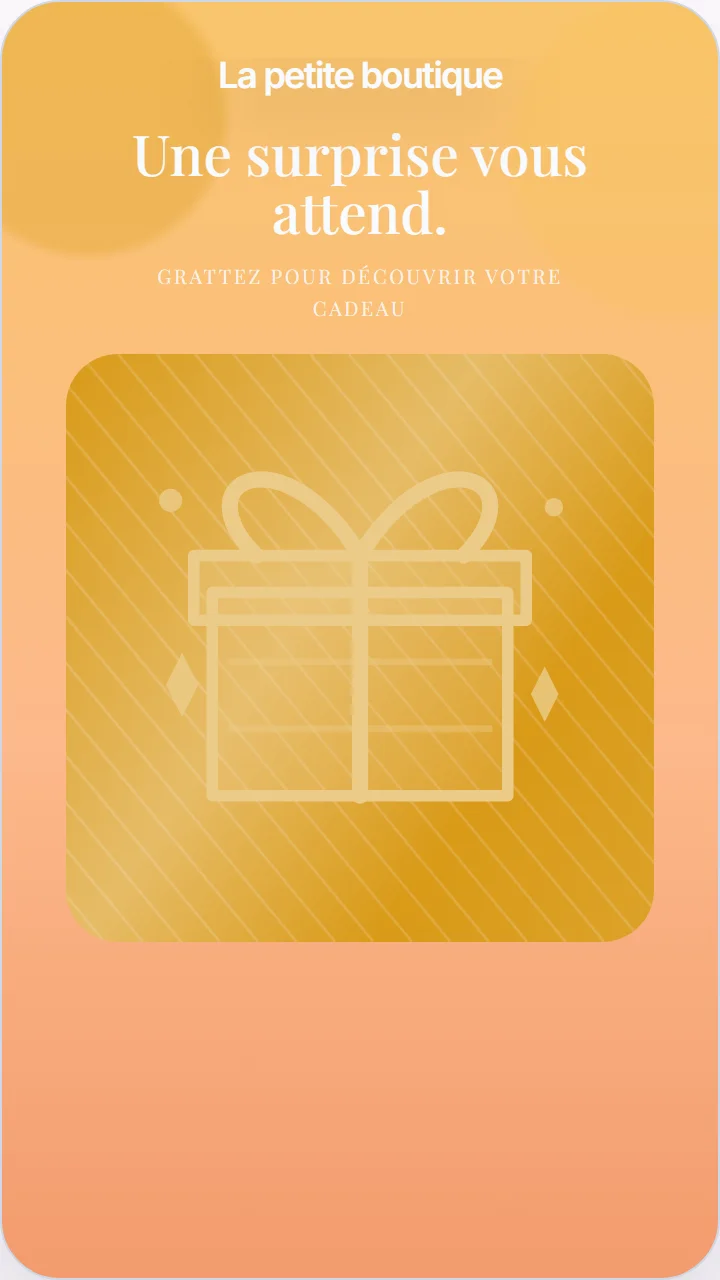
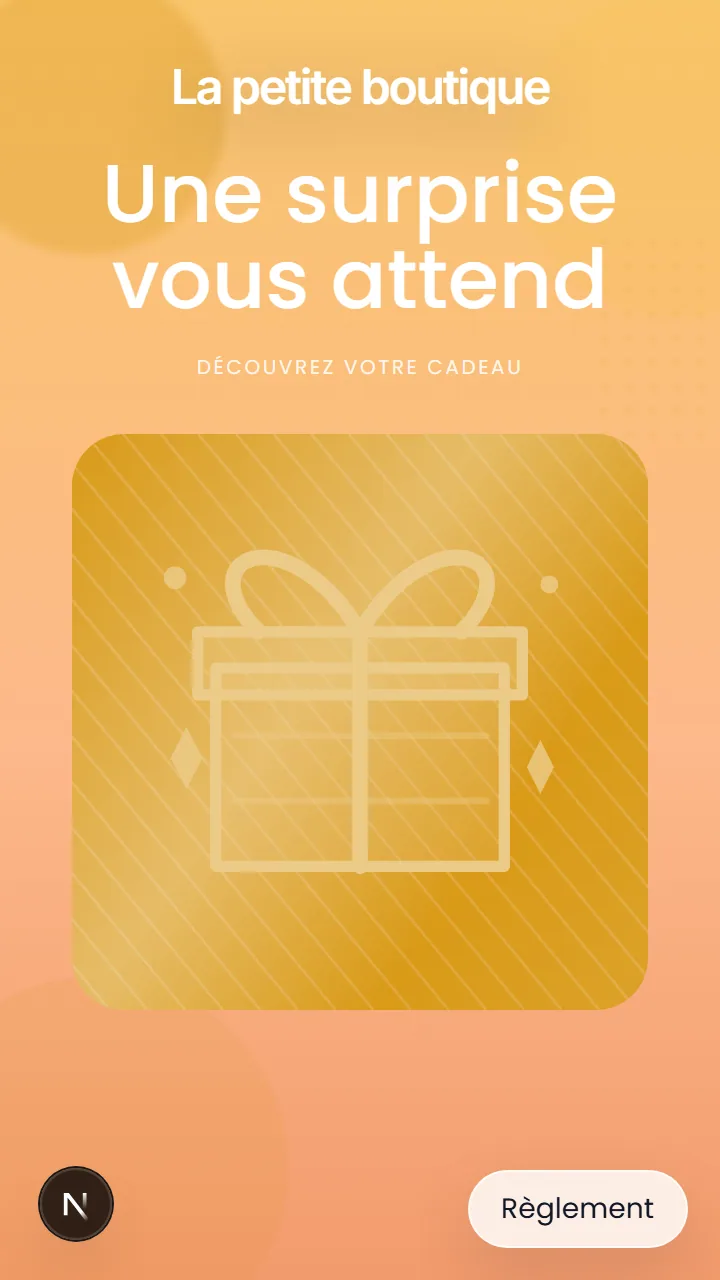
fix(marketing): improve poster and game screen composition

diff --git a/apps/landing-page/src/components/marketing/showcase.module.css b/apps/landing-page/src/components/marketing/showcase.module.css
@@ -23,13 +23,19 @@
 .phone img { display: block; width: 100%; height: auto; border-radius: 23px; }
 .journeyPlay { position: absolute; width: 210px; left: 50%; top: 25px; transform: translateX(-50%) rotate(-3deg); z-index: 2; }
 .journeyPlay .phone { width: 100%; }
-.journeyScan, .journeyReward { position: absolute; width: 160px; height: 285px; top: 105px; border: 5px solid #423b43; border-radius: 25px; padding: 29px 12px 15px; box-shadow: 0 10px 22px #2c193d14; background: #fff; text-align: center; display: flex; flex-direction: column; align-items: center; gap: 14px; }
-.journeyScan { left: 0; transform: rotate(-9deg); background: #eee5f2; }
+.journeyPoster, .journeyReward { position: absolute; width: 160px; height: 285px; top: 105px; box-shadow: 0 10px 22px #2c193d14; text-align: center; display: flex; flex-direction: column; align-items: center; }
+.journeyPoster { left: 0; transform: rotate(-5deg); padding: 18px 14px 15px; border: 1px solid #ded7c9; border-radius: 5px; background: linear-gradient(160deg, #fffefb, #f5f0e5); box-shadow: 0 16px 28px #2c193d1c, inset 0 0 0 5px #fffdf7; gap: 9px; }
 .journeyReward { right: 0; transform: rotate(9deg); background: #fff8ec; }
-.journeyScan strong, .journeyReward strong { font-size: 17px; line-height: 1.3; }
-.journeyScan > svg { width: 68px; height: 68px; padding: 8px; background: #fff; border-radius: 10px; }
+.journeyPoster .posterBrand { display: flex; align-items: center; gap: 5px; color: #365442; font-family: Georgia, serif; font-size: 12px; font-weight: 700; }
+.posterBrand svg { color: #607b50; }
+.posterKicker { margin-top: 5px; color: #766c5e; font-size: 7px; font-weight: 700; letter-spacing: .13em; text-transform: uppercase; }
+.posterHeadline { color: #2f4637; font-family: Georgia, serif; font-size: 18px; line-height: 1.15; }
+.posterCopy { max-width: 110px; color: #665f55; font-size: 9px; line-height: 1.45; }
+.posterQr { display: grid; place-items: center; width: 60px; height: 60px; margin-top: auto; border: 1px solid #e4dfd4; background: #fff; color: #273e32; }
+.posterAction { color: #365442; font-size: 8px; font-weight: 750; letter-spacing: .08em; text-transform: uppercase; }
+.journeyReward strong { font-size: 17px; line-height: 1.3; }
 .journeyReward > svg { color: #476b46; }
-.journeyScan small, .journeyReward small { font-size: 10px; line-height: 1.7; color: #645d69; }
+.journeyReward small { font-size: 10px; line-height: 1.7; color: #645d69; }
 .journeySteps { position: absolute; inset: auto 0 0; display: flex; justify-content: space-around; font-size: 11px; font-weight: 650; color: #5b4360; }
 .journeySteps span { display: flex; gap: 8px; align-items: center; }
 .journeySteps b { border: 1px solid #ddcde5; border-radius: 50%; width: 22px; height: 22px; display: grid; place-items: center; font-size: 10px; }
@@ -114,12 +120,12 @@
 .specialtyPanel .link { margin-top: 16px; }
 .beautyHero { display: grid; grid-template-columns: 1.3fr .7fr; gap: 40px; align-items: center; }
 .beautyHero > .phone { justify-self: center; width: 230px; transform: rotate(3deg); }
-@media (max-width: 1023px) { .hero { gap: 24px; } .journey { height: 420px; } .journeyScan, .journeyReward { width: 133px; height: 248px; top: 100px; } .journeyPlay { width: 185px; } .journeyScan { left: 0; } .journeyReward { right: 0; } .giftGrid { gap: 32px; } .modelArt .phone { width: 170px; } }
+@media (max-width: 1023px) { .hero { gap: 24px; } .journey { height: 420px; } .journeyPoster, .journeyReward { width: 133px; height: 248px; top: 100px; } .journeyPoster { padding: 14px 10px 12px; gap: 7px; } .posterHeadline { font-size: 15px; } .posterQr { width: 48px; height: 48px; } .posterQr svg { width: 39px; } .posterAction { font-size: 7px; } .journeyPlay { width: 185px; } .journeyReward { right: 0; } .giftGrid { gap: 32px; } .modelArt .phone { width: 170px; } }
 @media (max-width: 767px) {
   .section { padding-block: 54px; } .hero { grid-template-columns: 1fr; padding-block: 38px 10px; gap: 24px; }
   .hero h1 { max-width: 580px; font-size: clamp(36px, 8vw, 50px); } .heroCopy > p:not(.eyebrow):not(.note) { font-size: 16px; line-height: 1.8; margin-top: 20px; }
   .actions { margin-top: 22px; gap: 10px; } .actions a { font-size: 14px; padding-inline: 16px; }
-  .journey { height: 385px; max-width: 440px; } .journeyPlay { width: 178px; top: 14px; } .journeyScan, .journeyReward { width: 132px; height: 238px; top: 68px; padding-top: 22px; gap: 10px; } .journeyScan strong, .journeyReward strong { font-size: 14px; }
+  .journey { height: 385px; max-width: 440px; } .journeyPlay { width: 178px; top: 14px; } .journeyPoster, .journeyReward { width: 132px; height: 238px; top: 68px; } .journeyPoster { padding: 13px 9px 11px; gap: 6px; } .posterHeadline { font-size: 14px; } .posterCopy { font-size: 8px; } .posterQr { width: 44px; height: 44px; } .posterQr svg { width: 36px; } .journeyReward { padding: 22px 12px 15px; gap: 10px; } .journeyReward strong { font-size: 14px; }
   .benefits { gap: 12px 17px; font-size: 11px; } .reassurance { font-size: 11px; }
   .demo { padding-inline: 16px; padding-bottom: 20px; } .carousel { gap: 16px; } .modelCard { flex-basis: 80%; max-width: 300px; } .modelArt .phone { width: 190px; }
   .sectionTop { gap: 18px; align-items: start; flex-wrap: wrap; } .sectionTop > div:first-child { flex-basis: 100%; } .carouselControls { gap: 8px; }
@@ -128,5 +134,5 @@
   .pricing { padding: 26px; gap: 30px; } .finalCta { flex-direction: column; align-items: start; padding: 28px; } .finalCta .heading { font-size: 27px; }
   .specialtyPanel { gap: 24px; padding: 22px; } .specialtyPanel h3 { font-size: 25px; } .specialtyArt .phone { width: 195px; } .beautyHero > .phone { width: 190px; margin-block: 12px; }
 }
-@media (max-width: 359px) { .container { width: calc(100% - 32px); } .hero h1 { font-size: 35px; } .journey { height: 350px; } .journeyPlay { width: 156px; } .journeyScan, .journeyReward { width: 118px; height: 220px; } .journeySteps { font-size: 10px; } .journeySteps span { gap: 5px; } .modelArt .phone { width: 175px; } .sectorCard { grid-template-columns: 95px 1fr; } .sectorArt .phone { width: 100px; } .sectionTop { align-items: start; } }
+@media (max-width: 359px) { .container { width: calc(100% - 32px); } .hero h1 { font-size: 35px; } .journey { height: 350px; } .journeyPlay { width: 156px; } .journeyPoster, .journeyReward { width: 118px; height: 220px; } .journeyPoster { gap: 5px; padding: 12px 7px 9px; } .posterBrand { font-size: 10px; } .posterKicker { font-size: 6px; } .posterHeadline { font-size: 13px; } .posterCopy { max-width: 95px; font-size: 7px; } .posterQr { width: 38px; height: 38px; } .posterQr svg { width: 32px; } .posterAction { font-size: 6px; } .journeyReward { padding: 22px 10px 12px; } .journeySteps { font-size: 10px; } .journeySteps span { gap: 5px; } .modelArt .phone { width: 175px; } .sectorCard { grid-template-columns: 95px 1fr; } .sectorArt .phone { width: 100px; } .sectionTop { align-items: start; } }
 @media (prefers-reduced-motion: reduce) { .home *, .carousel { scroll-behavior: auto !important; transition: none !important; animation: none !important; } }

diff --git a/apps/web-app/e2e/game-screen-layout.spec.ts b/apps/web-app/e2e/game-screen-layout.spec.ts
@@ -1,0 +1,110 @@
+import { expect, test } from "@playwright/test";
+import { assertNoPageOverflow, captureVisualAt1280, rejectAnalyticsForVisualTests } from "./helpers/visual-1280";
+
+const viewports = [
+  { width: 1280, height: 720 },
+  { width: 1280, height: 600 },
+  { width: 390, height: 844 },
+];
+
+test("@visual-1280 jeu roue : le titre reste dégagé du jeu sur grand et petit écran", async ({ page, baseURL }, info) => {
+  await rejectAnalyticsForVisualTests(page.context(), baseURL!);
+  await page.route("**/api/public/campaign/template-proof-campaign*", route => route.fulfill({ json: { campaign: { actions: [] } } }));
+
+  for (const viewport of viewports) {
+    await page.setViewportSize(viewport);
+    await page.goto("/dev/template-rendering-proof?mode=live&template=beauty-nude&business=beauty");
+    await page.addStyleTag({ content: "nextjs-portal { display: none !important; }" });
+    const surface = page.locator(".okado-public-experience");
+    const heading = surface.locator("h1");
+    const wheel = surface.getByTestId("game-wheel-frame");
+    await expect(heading).toContainText("Une surprise");
+    await expect(wheel).toBeVisible();
+    const headingBox = (await heading.boundingBox())!;
+    const wheelBox = (await wheel.boundingBox())!;
+    expect(wheelBox.y).toBeGreaterThanOrEqual(headingBox.y + headingBox.height);
+    await expect.poll(() => page.evaluate(() => document.documentElement.scrollWidth)).toBeLessThanOrEqual(viewport.width);
+    await assertNoPageOverflow(page);
+
+    if (viewport.width === 1280) {
+      await captureVisualAt1280(page, info, `roue-beaute-${viewport.height}`, viewport.height);
+    } else {
+      await page.screenshot({ path: info.outputPath("roue-beaute-mobile.png"), animations: "disabled" });
+    }
+  }
+});
+
+test("@visual-1280 ticket : la zone à gratter est alignée sans recouvrir le titre", async ({ page, baseURL }, info) => {
+  await rejectAnalyticsForVisualTests(page.context(), baseURL!);
+  await page.route("**/api/public/campaign/template-proof-campaign*", route => route.fulfill({ json: { campaign: { actions: [] } } }));
+
+  for (const viewport of viewports) {
+    await page.setViewportSize(viewport);
+    await page.goto("/dev/template-rendering-proof?mode=live&template=beauty-scratch-nude&business=beauty");
+    await page.addStyleTag({ content: "nextjs-portal { display: none !important; }" });
+    const surface = page.locator(".okado-public-experience");
+    const heading = surface.getByRole("heading", { name: /Une surprise/ });
+    const ticket = surface.getByTestId("scratch-ticket-surface");
+    await expect(ticket.locator("canvas")).toBeVisible();
+    const headingBox = (await heading.boundingBox())!;
+    const ticketBox = (await ticket.boundingBox())!;
+    expect(ticketBox.y).toBeGreaterThanOrEqual(headingBox.y + headingBox.height);
+    if (viewport.width === 390) expect(ticketBox.width).toBeGreaterThanOrEqual(235);
+    await expect.poll(() => page.evaluate(() => document.documentElement.scrollWidth)).toBeLessThanOrEqual(viewport.width);
+    await assertNoPageOverflow(page);
+
+    if (viewport.width === 1280) {
+      await captureVisualAt1280(page, info, `ticket-beaute-${viewport.height}`, viewport.height);
+    } else {
+      await page.screenshot({ path: info.outputPath("ticket-beaute-mobile.png"), animations: "disabled" });
+    }
+  }
+});
+
+test("game screens marketing : captures joueur réelles sur données synthétiques", async ({ browser }, info) => {
+  const context = await browser.newContext({ viewport: { width: 360, height: 640 }, deviceScaleFactor: 2 });
+  await context.route("**/api/public/campaign/template-proof-campaign*", route => route.fulfill({ json: { campaign: { actions: [] } } }));
+  const page = await context.newPage();
+  const models = [
+    ["beauty-scratch-nude", "beauty", "game-nude-elegance"],
+    ["beauty-scratch-botanical", "beauty", "game-botanique"],
+    ["beauty-scratch-noir-or", "beauty", "game-noir-or-ticket"],
+    ["beauty-scratch-lilas", "beauty", "game-lilas"],
+    ["beauty-pop", "beauty", "game-beauty-pop"],
+    ["beauty-editorial", "beauty", "game-noir-or-wheel"],
+    ["beauty-nude", "beauty", "game-nude-wheel"],
+    ["classic", "restaurant", "game-restaurant"],
+    ["scratch-confetti", "retail", "game-commerce"],
+  ] as const;
+  const headingColors: Record<(typeof models)[number][0], string> = {
+    "beauty-scratch-nude": "#48382b",
+    "beauty-scratch-botanical": "#334b38",
+    "beauty-scratch-noir-or": "#f2e4c5",
+    "beauty-scratch-lilas": "#44314d",
+    "beauty-pop": "#49313e",
+    "beauty-editorial": "#f2e4c5",
+    "beauty-nude": "#48382b",
+    classic: "#ffffff",
+    "scratch-confetti": "#ffffff",
+  };
+
+  try {
+    for (const [template, business, asset] of models) {
+      const ink = encodeURIComponent(headingColors[template]);
+      await page.goto(`/dev/template-rendering-proof?mode=live&template=${template}&business=${business}&ink=${ink}`);
+      const surface = page.locator(".okado-public-experience");
+      await expect(surface.locator(template.includes("scratch") ? "h2" : "h1")).toBeVisible();
+      if (!template.includes("scratch")) {
+        const title = surface.locator("h1");
+        const wheel = surface.getByTestId("game-wheel-frame");
+        const titleBox = (await title.boundingBox())!;
+        const wheelBox = (await wheel.boundingBox())!;
+        expect(wheelBox.y).toBeGreaterThanOrEqual(titleBox.y + titleBox.height);
+      }
+      await page.evaluate(() => document.fonts.ready);
+      await surface.screenshot({ path: info.outputPath(`${asset}.png`), animations: "disabled" });
+    }
+  } finally {
+    await context.close();
+  }
+});

diff --git a/apps/web-app/e2e/fixtures/template-rendering.tsx b/apps/web-app/e2e/fixtures/template-rendering.tsx
@@ -44,13 +44,15 @@ function AnalyticsIdentityProof() {
 }
 
 /** Synthetic rendering only: tests intercept every API request, no session bypass. */
-export function TemplateRenderingProof({ mode = "preview", templateId = "classic", background = "#ffffff", ink, font }: {
-  mode?: string; templateId?: GamePageTemplateId; background?: string; ink?: string; font?: TextFont;
+export function TemplateRenderingProof({ mode = "preview", templateId = "classic", background = "#ffffff", ink, font, business }: {
+  mode?: string; templateId?: GamePageTemplateId; background?: string; ink?: string; font?: TextFont; business?: string;
 }) {
   if (mode === "analytics-identity") return <AnalyticsIdentityProof />;
   const scratch = templateId.includes("scratch");
-  const merchant: Merchant = { id: "template-proof-merchant", companyName: "Établissement de test",
-    logoText: "Établissement de test", industry: "Beauté", onboardingCompleted: true, createdAt: "2026-10-15T00:00:00Z" };
+  const businessNames = { beauty: "Maison Botanique", restaurant: "Le bistro", retail: "La petite boutique" };
+  const companyName = businessNames[business as keyof typeof businessNames] ?? "Établissement de test";
+  const merchant: Merchant = { id: "template-proof-merchant", companyName,
+    logoText: companyName, industry: "Beauté", onboardingCompleted: true, createdAt: "2026-10-15T00:00:00Z" };
   const color = ink ?? (scratch ? defaultScratchTextColor(templateId) : wheelHeadingColorForTemplateSelection(templateId, "#ffffff"));
   const form = {
     ...halloweenFixture, id: "template-proof-campaign", merchantId: merchant.id,
@@ -160,7 +162,7 @@ export function TemplateRenderingProof({ mode = "preview", templateId = "classic
     locations={[{ merchant, role: "owner" }]} activeLocationId={merchant.id} isSaasAdmin={false}>
     <PosterEditor campaign={performance.campaign} prizes={performance.prizes} />
   </MerchantShell>;
-  if (mode === "public") return <CampaignExperience campaignId={form.id} initialCampaign={publicCampaign} />;
+  if (mode === "public" || mode === "live") return <CampaignExperience campaignId={form.id} initialCampaign={publicCampaign} />;
   if (mode === "game-preview") return <CampaignExperience campaignId={form.id} initialCampaign={publicCampaign} isPreview previewToken="fixture-only" />;
   if (mode === "wizard") return <CampaignWizard merchant={merchant} initialCampaign={performance} />;
   if (mode === "editor") return <CampaignEditor merchant={merchant} initialCampaign={performance} deferInlineAssets />;

diff --git a/apps/landing-page/src/components/marketing/home-showcase.tsx b/apps/landing-page/src/components/marketing/home-showcase.tsx
@@ -1,5 +1,5 @@
 import Link from "next/link";
-import { ArrowRight, Check, CheckCircle2, ChartNoAxesCombined, Gift, Palette, QrCode, SlidersHorizontal } from "lucide-react";
+import { ArrowRight, Check, CheckCircle2, ChartNoAxesCombined, Gift, Leaf, Palette, QrCode, SlidersHorizontal } from "lucide-react";
 import { commerceModel, gameModels, heroModel, restaurantModel } from "@/lib/marketing-examples";
 import { APP_URL } from "@/lib/site";
 import { GamePreview } from "./game-preview";
@@ -23,7 +23,14 @@ export function HomeHero() {
     </div>
     <figure className={styles.heroVisual}>
       <div className={styles.journey}>
-        <div className={styles.journeyScan} aria-hidden="true"><small>MAISON BOTANIQUE</small><strong>Une surprise<br />vous attend.</strong><QrCode /><small>Scannez le QR<br />dans l’établissement.</small></div>
+        <div className={styles.journeyPoster} aria-hidden="true">
+          <span className={styles.posterBrand}><Leaf size={15} />Maison Botanique</span>
+          <span className={styles.posterKicker}>Une attention pour vous</span>
+          <strong className={styles.posterHeadline}>Une surprise<br />vous attend.</strong>
+          <span className={styles.posterCopy}>À découvrir lors de votre prochaine visite.</span>
+          <span className={styles.posterQr}><QrCode size={48} strokeWidth={1.5} /></span>
+          <span className={styles.posterAction}>QR code de votre campagne</span>
+        </div>
         <div className={styles.journeyPlay}><GamePreview model={heroModel} eager /></div>
         <div className={styles.journeyReward} aria-hidden="true"><CheckCircle2 size={28} strokeWidth={1.3} /><strong>Un masque<br />offert.</strong><small>Avec un soin visage payant.<br />Votre gain par e-mail.</small><Gift size={28} strokeWidth={1.3} /></div>
         <div className={styles.journeySteps} aria-hidden="true"><span><b>1</b>Scanne</span><span><b>2</b>Joue</span><span><b>3</b>Découvre</span></div>

diff --git a/apps/web-app/src/components/public/wheel-of-fortune.tsx b/apps/web-app/src/components/public/wheel-of-fortune.tsx
@@ -352,7 +352,7 @@ export function WheelOfFortune({
   const roseLight = isDefaultRoseColor ? "#f3cdd5" : deriveLighterHex(colors.loseColor, 0.67);
   const roseMedium = isDefaultRoseColor ? "#e7aebb" : deriveLighterHex(colors.loseColor, 0.4);
   const wheelTop =
-    framing === "public" ? undefined : isRosePowderTemplate ? (framing === "mobile-preview" ? "calc(35% + 14px)" : "calc(40% + 14px)") : isBeautyTemplate ? (framing === "mobile-preview" ? "35%" : "40%") : isRoseInstitutTemplate ? "8px" : isClassicTemplate ? "54%" : isRestaurantPopTemplate ? "42%" : framing === "editor" ? "83%" : framing === "mobile-preview" ? "70%" : "62%";
+    framing === "mobile-preview" ? "64px" : framing === "public" ? undefined : isRosePowderTemplate ? "calc(40% + 14px)" : isBeautyTemplate ? "40%" : isRoseInstitutTemplate ? "8px" : isClassicTemplate ? "54%" : isRestaurantPopTemplate ? "42%" : framing === "editor" ? "83%" : "62%";
   const wheelFrameSizeClass =
     framing === "public"
       ? isBeautyTemplate
@@ -447,6 +447,7 @@ export function WheelOfFortune({
   return (
     <div className="relative h-full w-full overflow-visible" style={{ containerType: "inline-size" }}>
       <div
+        data-testid="game-wheel-frame"
         className={`absolute left-1/2 aspect-square ${wheelTransformClass} ${wheelFrameSizeClass} ${
           isRosePowderTemplate
             ? "drop-shadow-[0_12px_30px_rgba(90,45,60,0.12)]"

diff --git a/apps/web-app/src/app/dev/template-rendering-proof/page.tsx b/apps/web-app/src/app/dev/template-rendering-proof/page.tsx
@@ -5,10 +5,10 @@ import type { GamePageTemplateId, TextFont } from "@/lib/types";
 export const metadata = { robots: { index: false, follow: false } };
 
 export default async function Page({ searchParams }: {
-  searchParams: Promise<{ mode?: string; template?: string; background?: string; ink?: string; font?: string }>;
+  searchParams: Promise<{ mode?: string; template?: string; background?: string; ink?: string; font?: string; business?: string }>;
 }) {
   if (process.env.NODE_ENV !== "development") notFound();
   const query = await searchParams;
   const font = ["playfair", "cormorant", "bodoni"].includes(query.font ?? "") ? query.font as TextFont : undefined;
-  return <TemplateRenderingProof mode={query.mode} templateId={query.template as GamePageTemplateId} background={query.background} ink={query.ink} font={font} />;
+  return <TemplateRenderingProof mode={query.mode} templateId={query.template as GamePageTemplateId} background={query.background} ink={query.ink} font={font} business={query.business} />;
 }

diff --git a/apps/web-app/e2e/template-rendering-511.spec.ts b/apps/web-app/e2e/template-rendering-511.spec.ts
@@ -65,6 +65,12 @@ for (const mode of ["preview", "public", "game-preview"]) {
     for (const template of templates) {
       await page.goto(url(mode, template, { ink: "#003cb4" }));
       await expect(page.locator("canvas").first()).toBeVisible();
+        if (template === "beauty-scratch-nude" && mode === "public") {
+          const ticket = page.getByTestId("scratch-ticket-surface");
+          await expect(ticket).toBeVisible();
+          const ticketWidth = await ticket.evaluate((node) => Number.parseFloat(getComputedStyle(node).width));
+          expect(ticketWidth).toBeGreaterThanOrEqual(230);
+        }
       await expect(page.getByText(/Le résultat s'affiche automatiquement|Le résultat apparaît dès|Le gain sera disponible selon|Votre gain sera confirmé après/)).toHaveCount(0);
       if (template === "scratch-lilac") {
         await expect(page.getByText("Établissement de test", { exact: true }).first()).toHaveCSS("color", "rgb(33, 11, 50)");

diff --git a/apps/web-app/e2e/beauty-wheel-polish.spec.ts b/apps/web-app/e2e/beauty-wheel-polish.spec.ts
@@ -20,6 +20,13 @@ for (const template of templates) {
         await page.setViewportSize({ width, height: 844 });
         await page.goto(`/dev/beauty-wheel-backgrounds?template=${template}&mode=${mode}`);
         const surface = page.locator(`[data-template-id="${template}"]`);
+        if (mode === "preview") {
+          const heading = surface.locator(".okado-beauty-heading");
+          const wheel = surface.getByTestId("game-wheel-frame");
+          const headingBox = (await heading.boundingBox())!;
+          const wheelBox = (await wheel.boundingBox())!;
+          expect(wheelBox.y).toBeGreaterThanOrEqual(headingBox.y + headingBox.height);
+        }
         const button = surface.getByRole("button", { name: "Jouer à la roue" });
         await expect(button).toBeVisible();
         await expect(button.locator("svg")).toHaveCount(0);

diff --git a/apps/web-app/src/components/public/immersive-scratch-ticket.tsx b/apps/web-app/src/components/public/immersive-scratch-ticket.tsx
@@ -221,7 +221,7 @@ export function ImmersiveScratchTicket({
   const instruction = "Grattez la carte pour révéler votre cadeau.";
 
   const surfaceClass = beautyTheme
-    ? "mx-auto aspect-square w-[70%] max-w-[216px] rounded-full"
+    ? "mx-auto aspect-square w-[84%] max-w-[280px] rounded-full"
     : isSunburst
     ? "aspect-[1.18/1] w-full"
     : "aspect-square w-full";
@@ -417,6 +417,7 @@ export function ImmersiveScratchTicket({
         </div>
 
         <div
+          data-testid="scratch-ticket-surface"
           className={`relative z-10 overflow-hidden ${surfaceClass} ${beautyTheme ? `${surfaceRimClass} shadow-[0_14px_34px_rgba(55,42,30,.18)]` : "rounded-[26px]"}`}
           style={{ marginTop: `${Math.max(0, textToScratchSpacingPx)}px` }}
         >

diff --git a/docs/releases/2026-10-19-site-vitrine-601.md b/docs/releases/2026-10-19-site-vitrine-601.md
@@ -25,9 +25,20 @@ le suivi existants. Les articles et URL sont conservés.
   bouton d’essai unifié dans les blocs concernés. Le libellé court de l’en-tête
   est conservé pour le petit mobile.
 
-Le site marketing et sa documentation sont seuls modifiés. Aucun changement
-du moteur de jeu, de la prévisualisation SaaS, du catalogue, des consentements,
+Le site marketing, les composants partagés de rendu des jeux et cette
+documentation sont modifiés. Aucun changement du catalogue, des consentements,
 des stocks, des gains, des e-mails, des comptes ou de l’offre.
+
+### Ajustement de l’affiche et des écrans de jeu
+
+L’affiche de la galerie est composée comme un support imprimé (papier,
+hiérarchie typographique, marque, QR décoratif et appel au scan), et non comme
+un aperçu de téléphone. Les neuf vignettes sont capturées depuis le parcours
+public joueur réel, plutôt que depuis l’aperçu marchand compact qui plaçait la
+roue trop près du titre. Les tickets beauté ont une surface à gratter plus
+généreuse et une consigne visible ; l’écran confettis garde sa marque et son
+titre dans le cadre. Des contrôles de géométrie couvrent bureau et mobile afin
+de prévenir chevauchements et débordements.
 
 ## Adaptations du brief
 
@@ -56,19 +67,19 @@ ne prétend pas établir les objectifs p75 avec ses seuls contrôles locaux.
 
 ## Provenance des visuels
 
-Neuf captures WebP 720 × 1280, total **494 498 octets** avant optimisation Next.
-Chaque source fait moins de 80 Ko. Les images sous le hero sont chargées
+Neuf captures WebP 720 × 1280, total **466 698 octets** avant optimisation Next.
+Chaque source fait moins de 83 Ko. Les images sous le hero sont chargées
 progressivement ; dimensions et tailles responsives sont réservées. Les fichiers
 sont directement dans `public/images/`, couverts par l’exception existante de
 `.vercelignore`.
 
-Ces captures utilisent **les vrais `CampaignLivePreview`,
-`buildCampaignLivePreviewModel`, `parseCampaignSetupInput` et palettes** du
-SaaS à la base `64ab11e`. Une fixture temporaire, réservée au développement,
-fournissait des réglages fictifs à 360 × 640 avec un facteur 2. Les polices et
-images étaient chargées avant capture. Toute sortie réseau externe et route
-API étaient bloquées ; aucune session marchande ni création de jeu nécessaire.
-La fixture temporaire a été retirée du candidat après capture.
+Ces captures utilisent le vrai parcours public `CampaignExperience` et les
+composants réels du SaaS à la base `64ab11e`. Une fixture temporaire, réservée
+au développement, fournissait des réglages fictifs à 360 × 640 avec un facteur
+2. Les polices et images étaient chargées avant capture. Toute sortie réseau
+externe et route API étaient bloquées ; aucune session marchande ni création
+de jeu nécessaire. La fixture temporaire a été retirée du candidat après
+capture.
 
 | Asset | Identifiant du modèle produit |
 | --- | --- |
@@ -110,6 +121,14 @@ Les commandes sont
 `npm run test:e2e -w @okado/landing-page -- --workers=3`, sur le build local
 avec le token synthétique `phc_consent_fixture` et toutes les sorties de mesure
 interceptées. Le serveur local utilisé est `http://localhost:3420`.
+
+Après l’ajustement visuel, `site-refresh` passe avec **9 réussis et 3 ignorés**.
+La nouvelle suite `game-screen-layout` passe ses **3 scénarios** (1280 × 720,
+1280 × 600 et mobile) et capture les neuf vrais écrans joueurs. Les suites
+`beauty-wheel-polish` valide les 14 contrôles ciblés de l’aperçu après son
+repositionnement ; `template-rendering-511` vérifie que les tickets n’ajoutent
+pas de phrases sous la zone à gratter. Le lint et le build de la landing, ainsi
+que lint et build du SaaS, sont exécutés pour le candidat mis à jour.
 
 La suite couvre la démo, les avis simulés, les retours/reset, le consentement,
 les clics d’acquisition, les modèles, les onglets et les métadonnées/liens des
